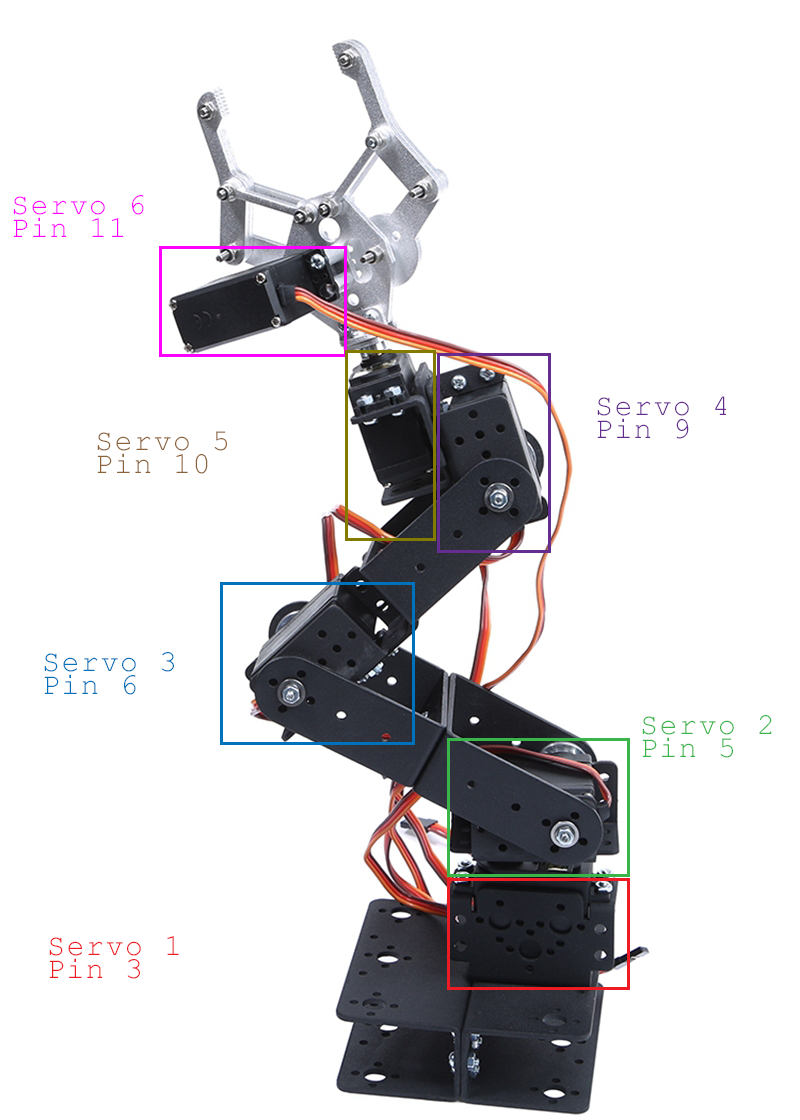
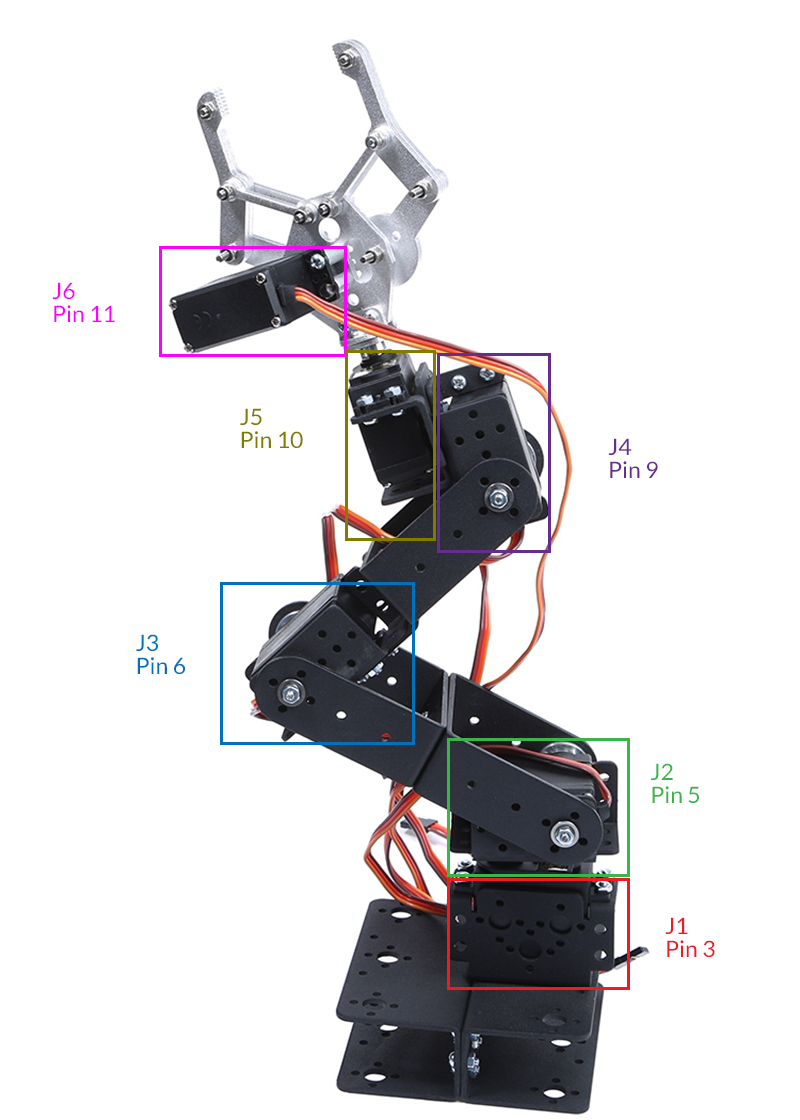
library break out

diff --git a/lib/robot.js b/lib/robot.js
@@ -1,32 +1,39 @@
-var request = require('request');
+var request = require('request'),
+    utils = require('./utilities');
 
 var robot = {
 
-    base: 3,
-    shoulder: 5,
-    elbow: 6,
-    wrist: 9,
-    hand: 10,
-    fingers: 11,
+    j1: 3,
+    j2: 5,
+    j3: 6,
+    j4: 9,
+    j5: 10,
+    j6: 11,
     baseUrl:'http://yun.local/arduino/servo/',
 
     init: function() {
-
+        this.allHome();
     },
     rotateHand: function(deg) {
-
+        this.servoTo(this.j5, deg);
     },
     closeFingers: function() {
-
+        this.servoTo(this.j6, 0);
     },
     openFingers: function() {
-
+        this.servoTo(this.j6, 180);
     },
-    // Rename this function when i'm nost tired
-    getUrl: function(url) {
-        request(baseUrl + url, function(error, response, body) {
-            console.log(body);
-        });
+    fingersTo: function(deg) {
+        this.servoTo(this.j6, deg);
+    },
+    servoTo: function(pin, deg) {
+        utils.getUrl(pin + '/' + deg);
+    },
+    allHome: function() {
+        this.servoTo(this.j1, 90);
+        this.servoTo(this.j2, 90);
+        this.servoTo(this.j3, 90);
+        this.servoTo(this.j4, 90);
+        this.servoTo(this.j5, 90);
     }
-
 };

diff --git a/README.md b/README.md
@@ -9,5 +9,13 @@
 
 Six degrees of freedom (6DoF) refers to the freedom of movement of a rigid body in three-dimensional space. Specifically, the body is free to move forward/backward, up/down, left/right (translation in three perpendicular axes) combined with rotation about three perpendicular axes, often termed pitch, yaw, and roll.
 
+
+Todos
+=== 
+
+* Intergrate socketio for control via Arduino Esplora
+* Implement "safe" zones so the robot does not ruin itself
+ 
+
 Credits
 * [Arduino Code based off of Fabio Biondi's article](http://www.fabiobiondi.com/blog/2014/02/html5-arduino-yun-and-angularjs-build-a-mobile-servo-controller/)
